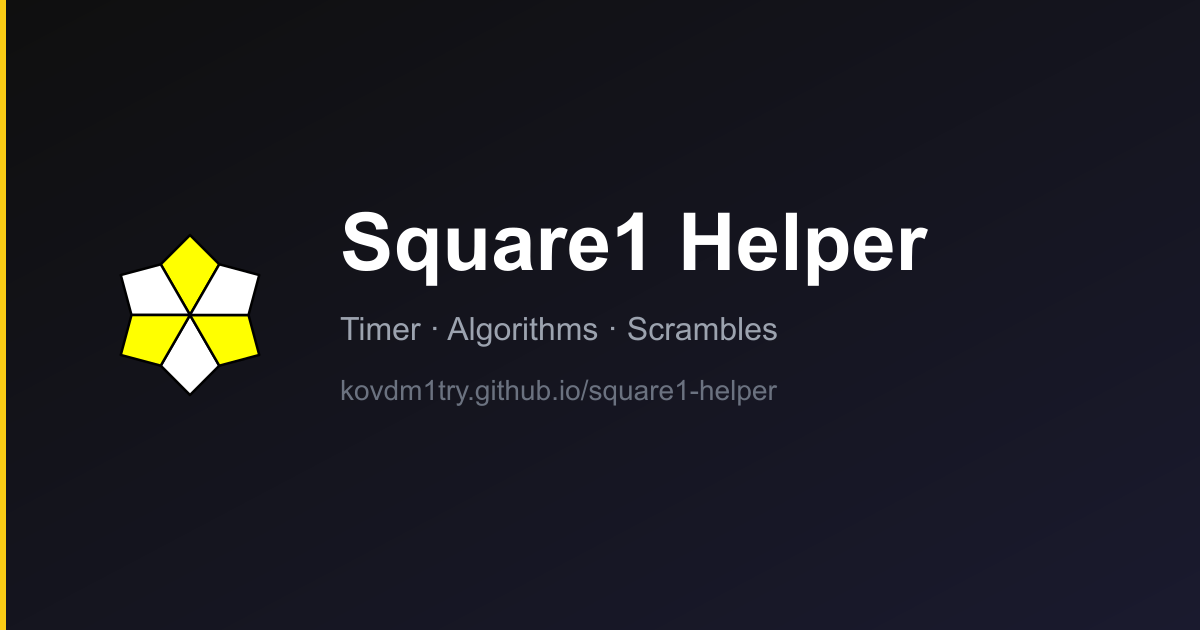
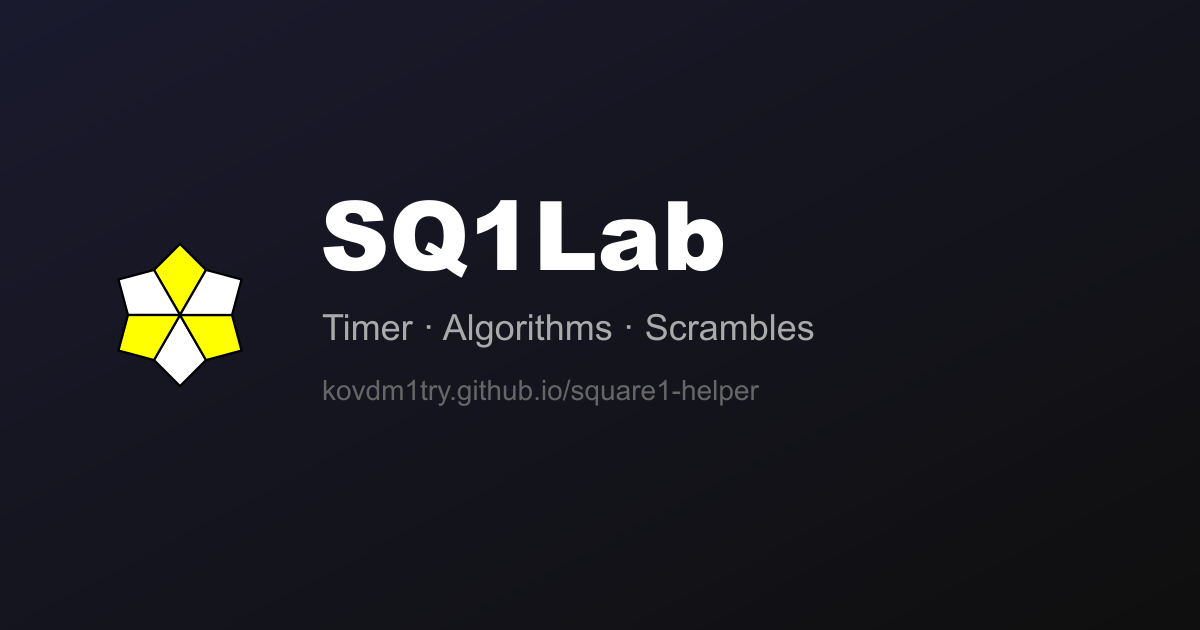
feat:rebrand to SQ1Lab: update title, meta tags, webmanifest, og-image; add keywords, JSON-LD structured data, twitter tags

diff --git a/index.html b/index.html
@@ -9,21 +9,44 @@
     <link rel="manifest" href="/site.webmanifest" />
     <meta name="theme-color" content="#0f0f0f" />
     <meta name="viewport" content="width=device-width, initial-scale=1.0" />
-    <title>Square1 Helper</title>
-    <meta name="description" content="Square1 Helper — a tool for speedcubers to learn Square-1 algorithms and track solving times. Features an interactive timer with inspection countdown, scramble generator, and a full algorithms reference with move notation." />
+    <title>SQ1Lab — Square-1 Timer & Algorithms</title>
+    <meta name="description" content="SQ1Lab — free Square-1 speedcubing tool. Practice with an online timer, inspection countdown, scramble generator, and a full Square-1 algorithms reference with move notation." />
+    <meta name="keywords" content="Square-1, SQ1, sq1, square one, square-1 algorithms, sq1 algorithms, square-1 timer, speedcubing timer, cube timer, OBL, CSP, EO, CO, CP, square-1 tutorial, sq1lab, speedcubing" />
+    <meta name="author" content="kovdm1try" />
     <meta name="google-site-verification" content="KjJ0v5M0v_oU1U0DKRFJpeGuoA9UMLDzFku4F2nt5Nc" />
     <meta name="msvalidate.01" content="B00A3FFE3616C3A0316DC67CC79953CD" />
     <meta name="robots" content="index, follow" />
     <link rel="canonical" href="https://kovdm1try.github.io/square1-helper/" />
     <meta property="og:type" content="website" />
     <meta property="og:url" content="https://kovdm1try.github.io/square1-helper/" />
-    <meta property="og:title" content="Square1 Helper — Timer & Algorithms" />
-    <meta property="og:description" content="Square1 Helper — a tool for speedcubers to learn Square-1 algorithms and track solving times. Features an interactive timer with inspection countdown, scramble generator, and a full algorithms reference with move notation." />
+    <meta property="og:title" content="SQ1Lab — Square-1 Timer & Algorithms" />
+    <meta property="og:description" content="Free Square-1 speedcubing tool: online timer with inspection countdown, scramble generator, and full algorithms reference with move notation." />
     <meta property="og:image" content="https://kovdm1try.github.io/square1-helper/og-image.png" />
     <meta property="og:image:width" content="1200" />
     <meta property="og:image:height" content="630" />
+    <meta property="og:site_name" content="SQ1Lab" />
     <meta name="twitter:card" content="summary_large_image" />
+    <meta name="twitter:title" content="SQ1Lab — Square-1 Timer & Algorithms" />
+    <meta name="twitter:description" content="Free Square-1 speedcubing tool: online timer with inspection countdown, scramble generator, and full algorithms reference." />
     <meta name="twitter:image" content="https://kovdm1try.github.io/square1-helper/og-image.png" />
+    <script type="application/ld+json">
+    {
+      "@context": "https://schema.org",
+      "@type": "WebApplication",
+      "name": "SQ1Lab",
+      "alternateName": ["Square-1 Lab", "SQ1 Lab", "Square1 Helper"],
+      "url": "https://kovdm1try.github.io/square1-helper/",
+      "description": "Free Square-1 speedcubing tool with online timer, inspection countdown, scramble generator, and full algorithms reference.",
+      "applicationCategory": "SportsApplication",
+      "operatingSystem": "Web",
+      "offers": {
+        "@type": "Offer",
+        "price": "0",
+        "priceCurrency": "USD"
+      },
+      "keywords": "Square-1, SQ1, speedcubing, cube timer, algorithms, scramble generator"
+    }
+    </script>
   </head>
   <body>
     <div id="root"></div>

diff --git a/src/pages/About/About.tsx b/src/pages/About/About.tsx
@@ -9,9 +9,9 @@ const About = () => {
   return (
     <Box className={styles.about}>
       <Typography variant="body1">
-        Welcome to <b className={styles.important}>Square-1 Helper</b> — a site made by a Square-1 enthusiast, for
-        Square-1 enthusiasts. Whether you occasionally forget an algorithm or want to learn something new, this is your
-        handy reference.
+        Welcome to <b className={styles.important}>SQ1Lab</b> — a site made by a Square-1 enthusiast, for Square-1
+        enthusiasts. Whether you occasionally forget an algorithm or want to learn something new, this is your
+        reference.
       </Typography>
       <br />
       <Typography variant="body1">Currently in active development. Here&apos;s what&apos;s planned:</Typography>
